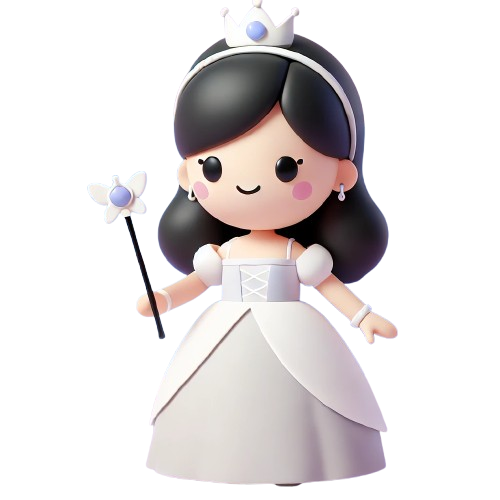
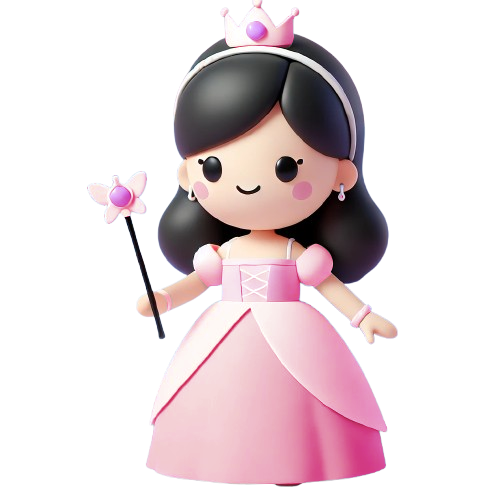
[feat] (이예빈) 더치페이 시 인증과정 추가

diff --git a/front/src/components/dutch/Participant/Participant.tsx b/front/src/components/dutch/Participant/Participant.tsx
@@ -7,7 +7,7 @@ import { PATH } from "./../../../constants/path";
 import { useAuthStore } from "../../../store/AuthStore";
 import apiClient from "../../../axios";
 
-apiClient.get('/endpoint') // https://your-api-base-url.com/endpoint
+apiClient.get("/endpoint"); // https://your-api-base-url.com/endpoint
 
 import line from "./../../../assets/image/dutch_line.png";
 // import { useEffect } from 'react';
@@ -20,6 +20,15 @@ import {
   Btn,
   WarningMessage,
 } from "./Participant.styles";
+import { FontAwesomeIcon } from "@fortawesome/react-fontawesome";
+import {
+  faFaceGrinHearts,
+  faFaceLaugh,
+  faFaceLaughSquint,
+  faFaceSmile,
+  faFaceSmileWink,
+} from "@fortawesome/free-solid-svg-icons";
+import BiometricsAuthModal from "../../../pages/BiometricsAuthModal/BiometricsAuthModal";
 
 // useEffect(() => {
 //   // 참가자 목록 불러오기_참가자가 새로 들어올 때마다 리스트 조회가 이루어져야함?
@@ -134,6 +143,26 @@ const Participant = ({
       status: item.status,
     }));
   };
+  const [showModal, setShowModal] = useState<boolean>(false);
+  const [isAuth, setIsAuth] = useState<boolean>(false);
+
+  //인증이 끝났을때
+  const endAuth = () => {
+    setIsAuth(true);
+    setShowModal(false);
+  };
+
+  const authStep = () => {
+    setShowModal(true);
+    onPaymentStart();
+  };
+
+  const icons = [
+    faFaceLaugh,
+    faFaceSmileWink,
+    faFaceLaughSquint,
+    faFaceGrinHearts,
+  ];
 
   console.log("totalPrice : ", totalPrice);
   const [confirmPrice, setConfirmPrice] = useState<number>();
@@ -339,9 +368,13 @@ const Participant = ({
       {dutchStart ? (
         <>
           {/* 더치페이 하여 구매할 상품 정보 */}
-          {loading? <p>주문 정보를 불러오는 중...</p> : (
+          {loading ? (
+            <p>주문 정보를 불러오는 중...</p>
+          ) : (
             <Product
-              productName={merchantName || "BESPOKE 냉장 4도어 키친핏 615L (UV탈취)"}
+              productName={
+                merchantName || "BESPOKE 냉장 4도어 키친핏 615L (UV탈취)"
+              }
               productUrl={
                 "https://www.ssg.com/item/itemView.ssg?itemId=1000566517100"
               }
@@ -374,7 +407,11 @@ const Participant = ({
                     height: "50px",
                     borderRadius: "100%",
                   }}
-                ></div>
+                >
+                  <FontAwesomeIcon
+                    icon={icons[Math.floor(Math.random() * icons.length)]}
+                  />
+                </div>
 
                 <div>{participant.memberName}</div>
                 {/* <div>삭제 아이콘</div> */}
@@ -445,7 +482,7 @@ const Participant = ({
           <SquareBtn
             text={`결제하기`}
             color="rgba(135, 72, 243, 0.74)"
-            onClick={onPaymentStart}
+            onClick={authStep}
           />
         ) : null}
         {/* 경고 메시지 출력 */}
@@ -453,6 +490,7 @@ const Participant = ({
       {showWarning && (
         <WarningMessage>결제 금액을 다시 확인해주세요.</WarningMessage>
       )}
+      {showModal && <BiometricsAuthModal endAuth={endAuth} />}
     </Wrapper>
   );
 };
